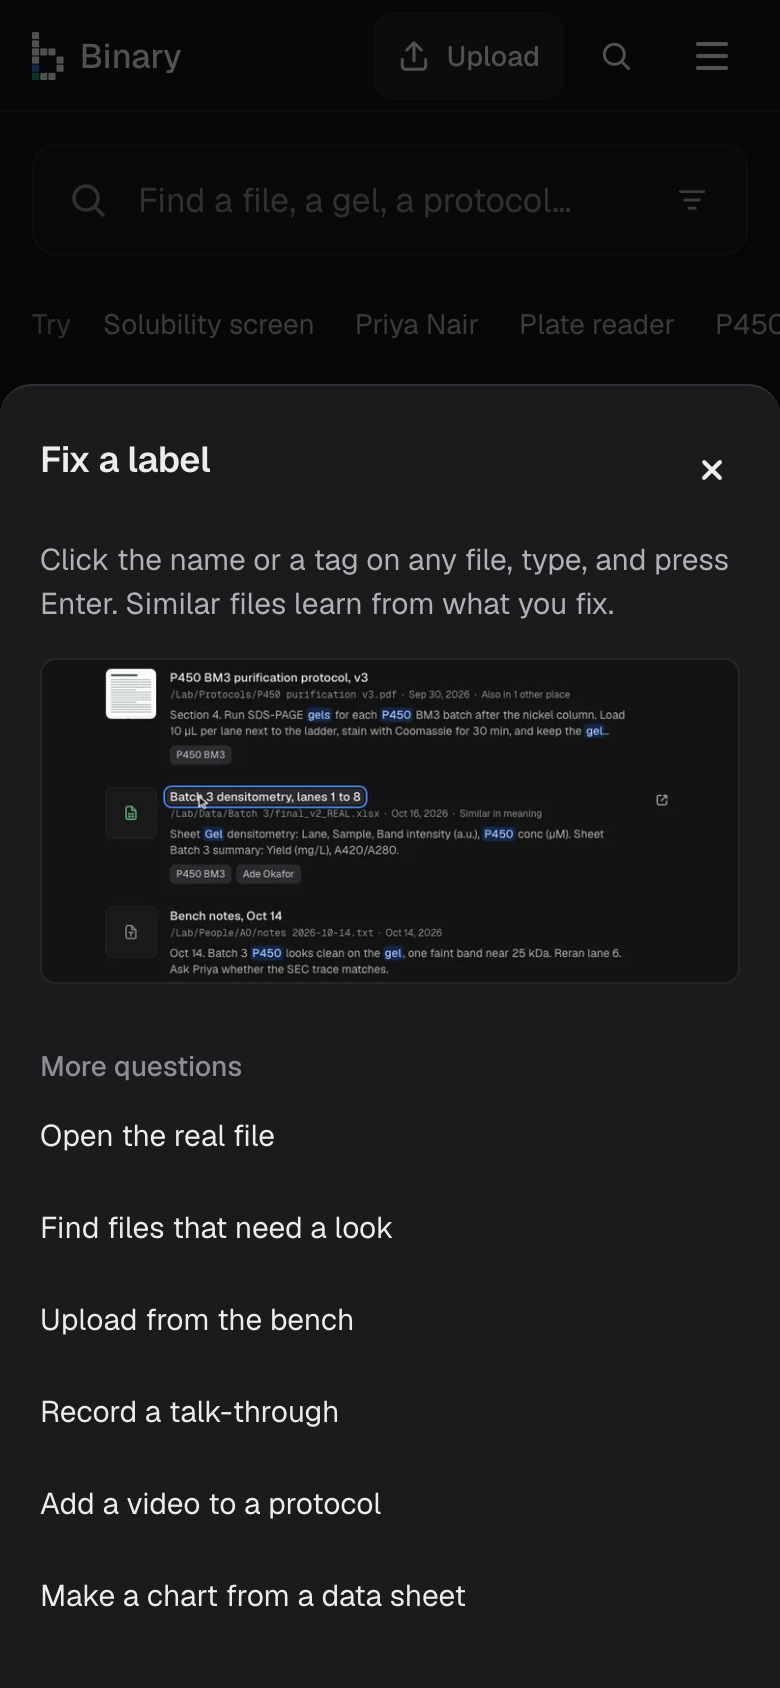
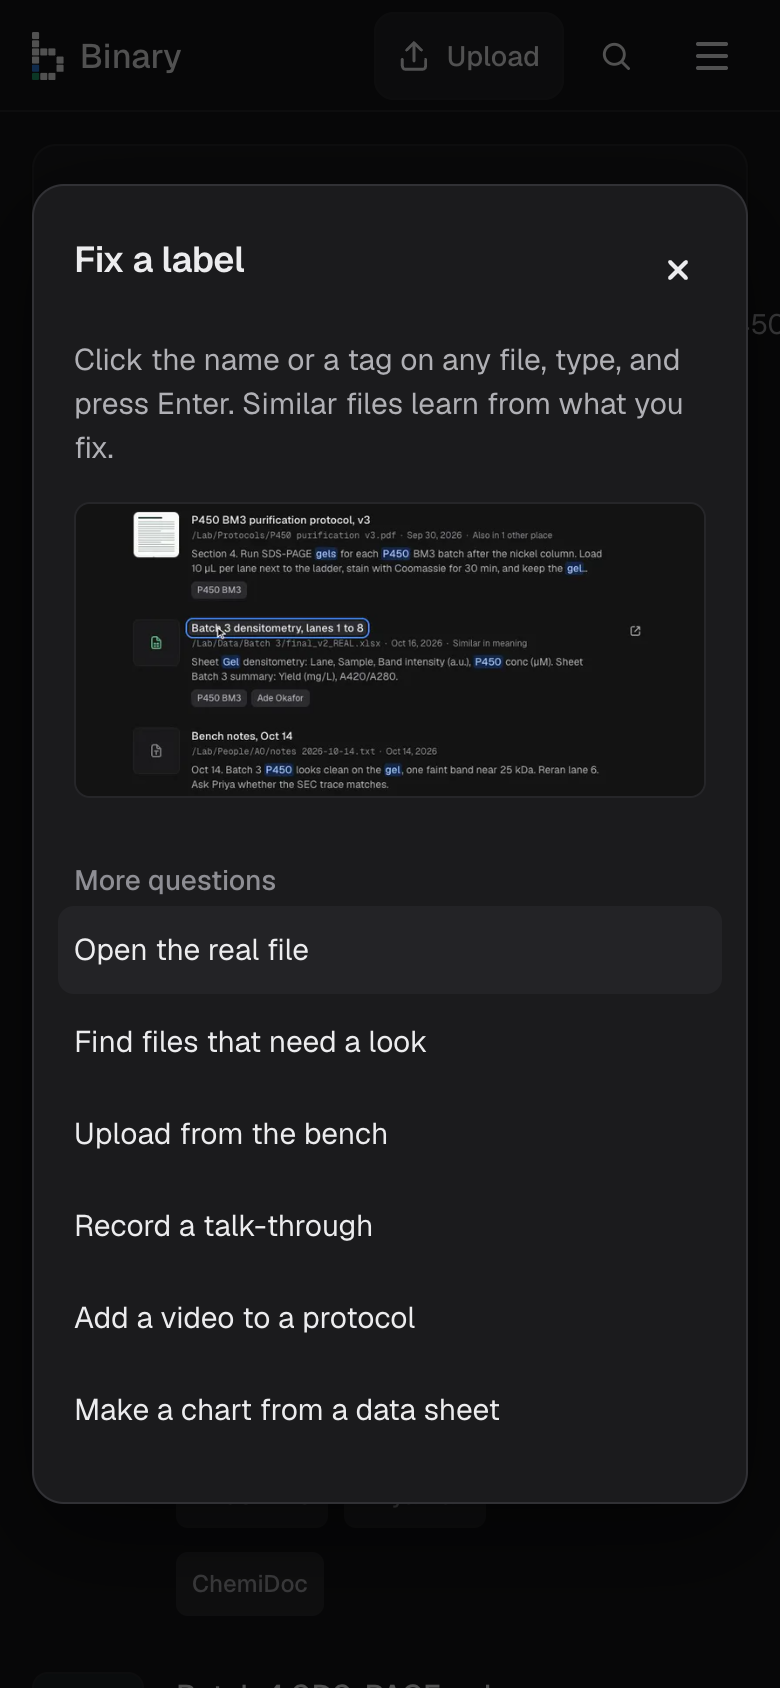
help opens in a centered modal that scales in and eases out

diff --git a/apps/web/src/components/onboarding/help.tsx b/apps/web/src/components/onboarding/help.tsx
@@ -1,6 +1,7 @@
 "use client";
 
 import { Dialog, DropdownMenu } from "radix-ui";
+import { useState } from "react";
 import { cn } from "@/lib/cn";
 import { HELP_ANSWERS, progressText, type HelpAnswer } from "@/lib/onboarding";
 import { DeleteIcon } from "../icons/base-web";
@@ -57,27 +58,30 @@ export function HelpMenuContent({ side, align, onNavigate }: { side: "top" | "ri
   );
 }
 
-// Help opens in a sheet from the right edge (the bottom on a phone), so the page stays in view.
+// Help opens in a centered modal that scales in and eases out; moving between answers cross-fades.
 export function HelpSheet() {
   const { overlay, closeOverlay, openSheet, summary } = useOnboarding();
   const view: SheetView | null = overlay.kind === "sheet" ? overlay.view : null;
-  const answer = view?.kind === "answer" ? HELP_ANSWERS.find((a) => a.id === view.id) : undefined;
-  const title = view?.kind === "checklist" ? "Getting started" : (answer?.question ?? "");
+  // Kept through the closing animation, so the modal doesn't empty out as it fades.
+  const [shown, setShown] = useState<SheetView | null>(view);
+  if (view !== null && view !== shown) setShown(view);
+  const answer = shown?.kind === "answer" ? HELP_ANSWERS.find((a) => a.id === shown.id) : undefined;
+  const title = shown?.kind === "checklist" ? "Getting started" : (answer?.question ?? "");
   return (
     <Dialog.Root open={view !== null} onOpenChange={(open) => (open ? undefined : closeOverlay())}>
       <Dialog.Portal>
-        <Dialog.Overlay className="fixed inset-0 z-40 animate-fade-in bg-background-overlay" />
+        <Dialog.Overlay className="fixed inset-0 z-40 bg-background-overlay data-[state=closed]:animate-fade-out data-[state=open]:animate-fade-in" />
         <Dialog.Content
           aria-describedby={undefined}
           className={cn(
-            "fixed z-50 flex animate-fade-in flex-col overflow-y-auto border-border-raised bg-background-raised text-content-primary shadow-deep-below focus-visible:outline-none",
-            "inset-x-0 bottom-0 max-h-[85dvh] rounded-t-card border-t",
-            "sm:inset-y-0 sm:right-0 sm:left-auto sm:max-h-none sm:w-[400px] sm:rounded-none sm:border-t-0 sm:border-l",
+            "fixed inset-0 z-50 m-auto flex h-fit max-h-[min(720px,calc(100dvh-48px))] w-[min(600px,calc(100vw-32px))] flex-col overflow-y-auto",
+            "rounded-card border border-border-raised bg-background-raised text-content-primary shadow-deep-below focus-visible:outline-none",
+            "data-[state=closed]:animate-modal-out data-[state=open]:animate-modal-in",
           )}
         >
-          <div className="flex items-start gap-3 px-5 pt-5 sm:pt-6">
+          <div className="flex items-start gap-3 px-5 pt-5 sm:px-6 sm:pt-6">
             <Dialog.Title className="min-w-0 flex-1 pt-1 text-heading-xsmall">{title}</Dialog.Title>
-            {view?.kind === "checklist" ? (
+            {shown?.kind === "checklist" ? (
               <span className="pt-1.5 text-paragraph-small text-content-tertiary tabular-nums">{progressText(summary)}</span>
             ) : null}
             <Dialog.Close className={cn(buttonVariants({ variant: "tertiary", shape: "square", size: "compact" }), "-mr-2")}>
@@ -85,8 +89,8 @@ export function HelpSheet() {
               <span className="sr-only">Close</span>
             </Dialog.Close>
           </div>
-          <div className="px-5 pt-3 pb-6">
-            {view?.kind === "checklist" ? <ChecklistLines onNavigate={closeOverlay} /> : null}
+          <div key={shown?.kind === "answer" ? shown.id : "checklist"} className="animate-fade-in px-5 pt-3 pb-6 sm:px-6">
+            {shown?.kind === "checklist" ? <ChecklistLines onNavigate={closeOverlay} /> : null}
             {answer === undefined ? null : <Answer answer={answer} onOpen={(id) => openSheet({ kind: "answer", id })} />}
           </div>
         </Dialog.Content>

diff --git a/apps/web/src/app/globals.css b/apps/web/src/app/globals.css
@@ -248,6 +248,21 @@
   @keyframes fade-in {
     from { opacity: 0; }
   }
+
+  --animate-fade-out: fade-out 150ms ease-in forwards;
+  @keyframes fade-out {
+    to { opacity: 0; }
+  }
+
+  --animate-modal-in: modal-in 240ms var(--ease-out);
+  @keyframes modal-in {
+    from { opacity: 0; transform: translateY(8px) scale(0.97); }
+  }
+
+  --animate-modal-out: modal-out 160ms ease-in forwards;
+  @keyframes modal-out {
+    to { opacity: 0; transform: translateY(4px) scale(0.98); }
+  }
 }
 
 @layer base {
